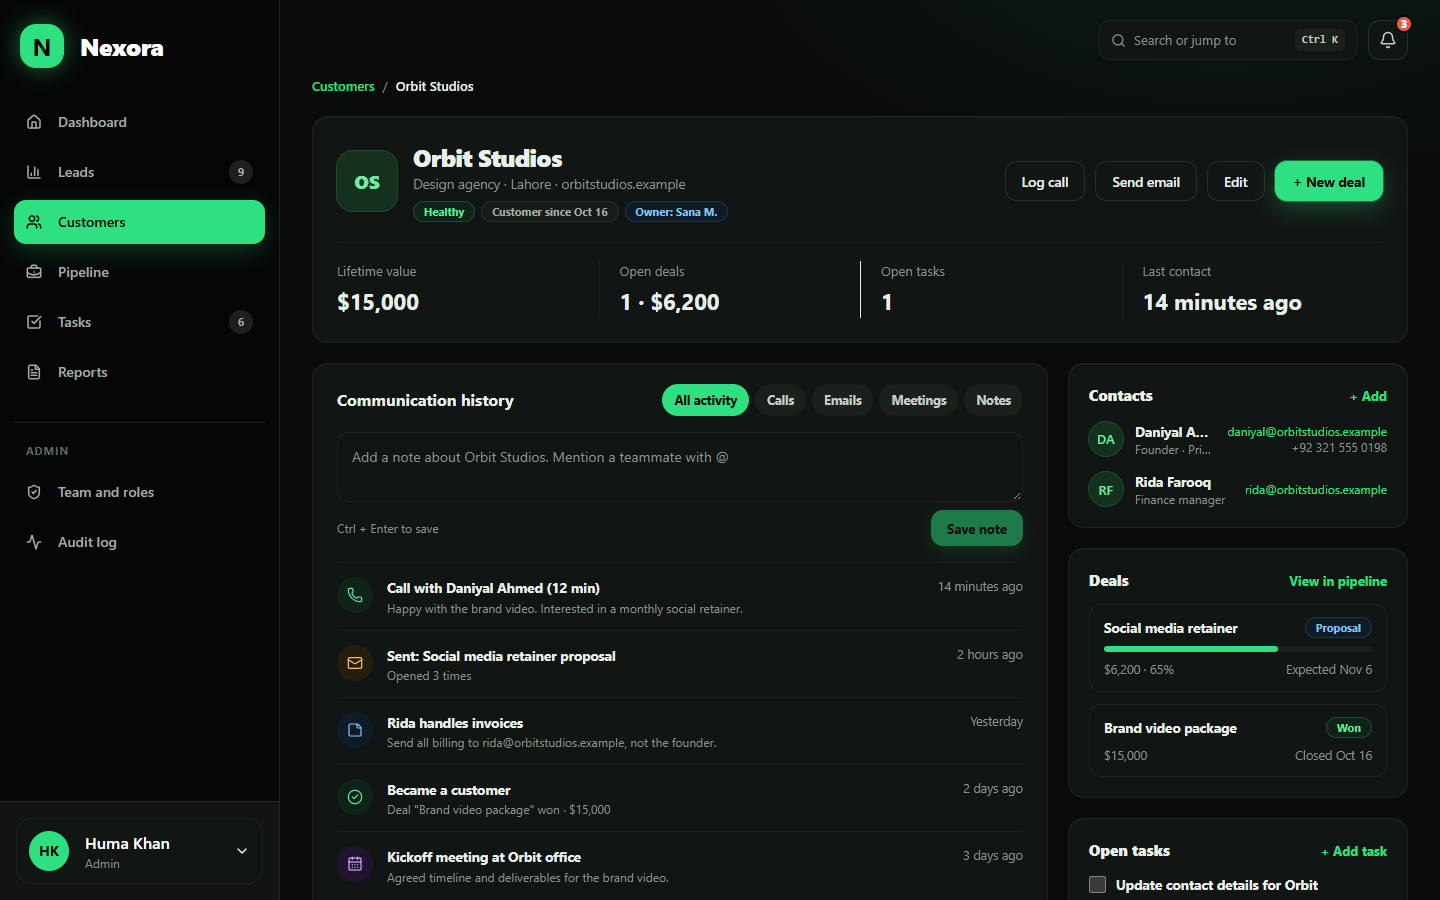
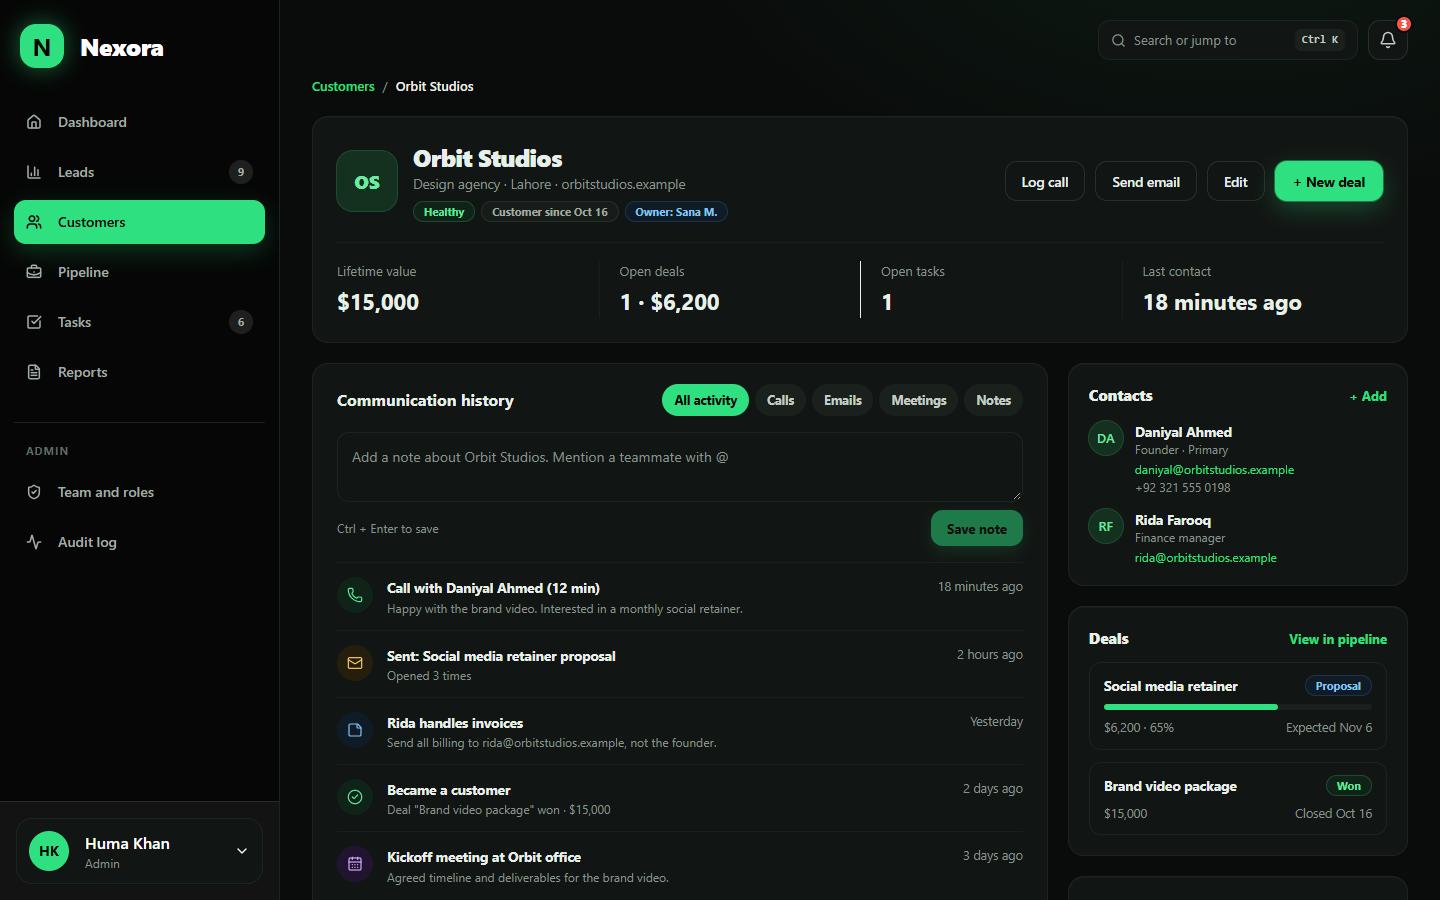
Polish: contacts layout, real unit tests for lead scoring, accurate test counts

diff --git a/components/customers/CustomerProfileView.tsx b/components/customers/CustomerProfileView.tsx
@@ -217,22 +217,25 @@ export default function CustomerProfileView({ id }: { id: string }) {
               )}
             </div>
             {c.contacts.map((p) => (
-              <div key={`${p.name}${p.email}`} className="flex items-center gap-3">
+              <div key={`${p.name}${p.email}`} className="flex items-start gap-3">
                 <Avatar name={p.name} size={34} />
+                {/* One column, so a long email never squeezes the name. */}
                 <div className="min-w-0 flex-1">
                   <b className="block truncate text-[13.5px]">{p.name}</b>
                   <div className="truncate text-xs text-slate-500">
                     {p.title || "Contact"}
                     {p === primary ? " · Primary" : ""}
                   </div>
-                </div>
-                <div className="min-w-0 text-right text-xs text-slate-500">
-                  {p.email && (
-                    <a href={`mailto:${p.email}`} className="block truncate text-primary">
-                      {p.email}
-                    </a>
+                  {(p.email || p.phone) && (
+                    <div className="mt-1 flex min-w-0 flex-wrap gap-x-3 gap-y-0.5 text-xs">
+                      {p.email && (
+                        <a href={`mailto:${p.email}`} className="min-w-0 max-w-full truncate text-primary">
+                          {p.email}
+                        </a>
+                      )}
+                      {p.phone && <span className="text-slate-500">{p.phone}</span>}
+                    </div>
                   )}
-                  {p.phone && <span className="block">{p.phone}</span>}
                 </div>
               </div>
             ))}

diff --git a/backend/tests/Unit/LeadScorerTest.php b/backend/tests/Unit/LeadScorerTest.php
@@ -1,0 +1,49 @@
+<?php
+
+namespace Tests\Unit;
+
+use App\Enums\LeadSource;
+use App\Enums\LeadStatus;
+use App\Services\LeadScorer;
+use PHPUnit\Framework\TestCase;
+
+/**
+ * The lead-scoring rules on their own, without a database: each rule adds its points,
+ * and every point is explained by a factor the UI can show.
+ */
+class LeadScorerTest extends TestCase
+{
+    private function score(LeadSource $source, LeadStatus $status, ?string $title, ?string $size, ?string $phone, ?string $email): array
+    {
+        return (new LeadScorer)->score($source, $status, $title, $size, $phone, $email);
+    }
+
+    public function test_a_strong_lead_scores_every_rule_and_explains_each_point(): void
+    {
+        $result = $this->score(LeadSource::Referral, LeadStatus::Qualified, 'Operations Director', '200+', '+92 300 555 0142', 'ayesha@cedarlogistics.example');
+
+        // 25 referral + 25 qualified + 20 company size + 15 decision maker + 5 phone + 5 work email
+        $this->assertSame(95, $result['score']);
+        $this->assertCount(6, $result['factors']);
+        $this->assertSame($result['score'], array_sum(array_column($result['factors'], 'points')));
+        $this->assertSame('Came from referral', $result['factors'][0]['label']);
+        $this->assertContains('Decision maker (Operations Director)', array_column($result['factors'], 'label'));
+    }
+
+    public function test_a_weak_lead_only_gets_points_for_its_source(): void
+    {
+        $result = $this->score(LeadSource::ColdEmail, LeadStatus::New, 'Intern', null, null, 'someone@gmail.com');
+
+        $this->assertSame(5, $result['score']);
+        $this->assertSame([['label' => 'Came from cold email', 'points' => 5]], $result['factors']);
+    }
+
+    public function test_free_email_addresses_and_junior_titles_add_nothing(): void
+    {
+        $work = $this->score(LeadSource::Website, LeadStatus::New, 'Head of Operations', null, null, 'omar@company.example');
+        $free = $this->score(LeadSource::Website, LeadStatus::New, 'Sales Assistant', null, null, 'omar@yahoo.com');
+
+        $this->assertSame(10 + 15 + 5, $work['score']);
+        $this->assertSame(10, $free['score']);
+    }
+}

diff --git a/backend/app/Services/LeadScorer.php b/backend/app/Services/LeadScorer.php
@@ -8,7 +8,8 @@ use App\Enums\LeadStatus;
 /**
  * Explainable lead scoring: a few simple rules, each worth some points.
  * The factors are saved with the lead so the UI can show *why* it scored what it did.
- * The same rules run in the frontend (lib/crm-store.ts → scoreLead) for instant feedback.
+ * Runs on the server only: leads are scored when they are created or imported, and scored
+ * again when their details or status change (while auto_score is on).
  */
 class LeadScorer
 {

diff --git a/docs/ARCHITECTURE.md b/docs/ARCHITECTURE.md
@@ -191,7 +191,7 @@ app/Enums                      statuses, stages, sources, roles… stored as sho
 app/Notifications              TeamInvite and TaskReminder emails
 app/Console/Commands           nexora:send-task-reminders
 database/migrations, seeders   the schema and the demo data
-tests/Feature                  API tests (28 backend tests in all)
+tests/Feature, tests/Unit     API tests and lead-scoring unit tests (29 in all)
 ```
 
 The main endpoints:
@@ -211,7 +211,7 @@ The main endpoints:
 
 ## Testing
 
-- **28 backend tests** (`cd backend && php artisan test`: 26 API feature tests plus Laravel's two example tests) on an in-memory SQLite database seeded with the demo data. They cover sign-in and lockout, what each role receives, policies, validation, lead scoring, conversion, deal stages and lifetime value, the audit log, team rules, password reset and invites (expired and reused links), reminders being sent once, rate limits being separate per form, and people with the same short name being kept apart.
+- **29 backend tests** (`cd backend && php artisan test`): 26 API feature tests on an in-memory SQLite database seeded with the demo data, and 3 unit tests for the lead-scoring rules. They cover sign-in and lockout, what each role receives, policies, validation, lead scoring, conversion, deal stages and lifetime value, the audit log, team rules, password reset and invites (expired and reused links), reminders being sent once, rate limits being separate per form, and people with the same short name being kept apart.
 - **Five end-to-end scripts** (`scripts/check-*.mjs`) drive a real browser against the running app: sign-in and data loading (19 checks), saving every kind of change (14), accounts and emails (9), same-name owners (6) and responsive layout at three screen sizes (38 pages and dialogs).
 - `npm run lint` and `npm run build` (which type-checks everything) must pass before every merge.
 

diff --git a/docs/AI-USAGE.md b/docs/AI-USAGE.md
@@ -38,7 +38,7 @@ Most bugs were caught by tests or by testing as different roles, not by me spott
 
 ## How I checked the AI's work
 
-- Nothing was merged without the **28 backend tests**, **lint**, the **production build** and the **five browser scripts** passing.
+- Nothing was merged without the **29 backend tests**, **lint**, the **production build** and the **five browser scripts** passing.
 - Every role was tried by hand: Admin, Manager and Sales rep see and can do different things.
 - ✏ How you made sure you understand the code: for example, reading the main files (`lib/crm-store.ts`, the controllers, policies and migrations), and asking Claude to explain anything unclear until you could explain it back.
 

diff --git a/README.md b/README.md
@@ -104,7 +104,7 @@ More in the [user guide](docs/USER-GUIDE.md).
 
 ## Tests
 
-**Backend** (28 tests, on an in-memory SQLite database, nothing to set up):
+**Backend** (29 tests, on an in-memory SQLite database, nothing to set up):
 
 ```bash
 cd backend && php artisan test
